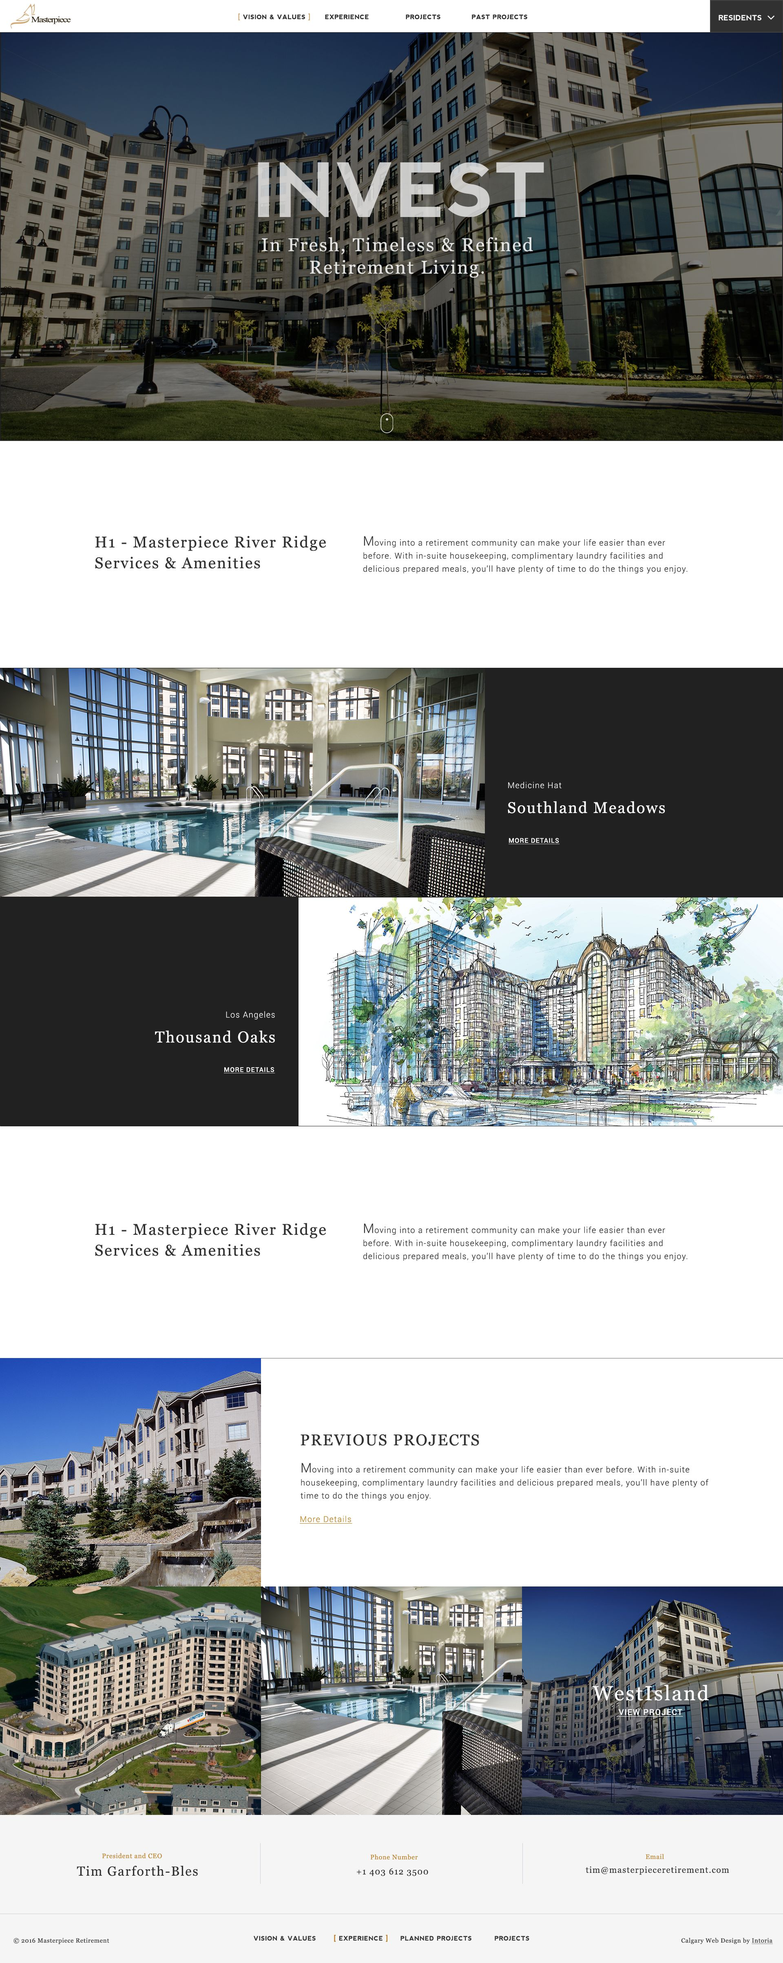
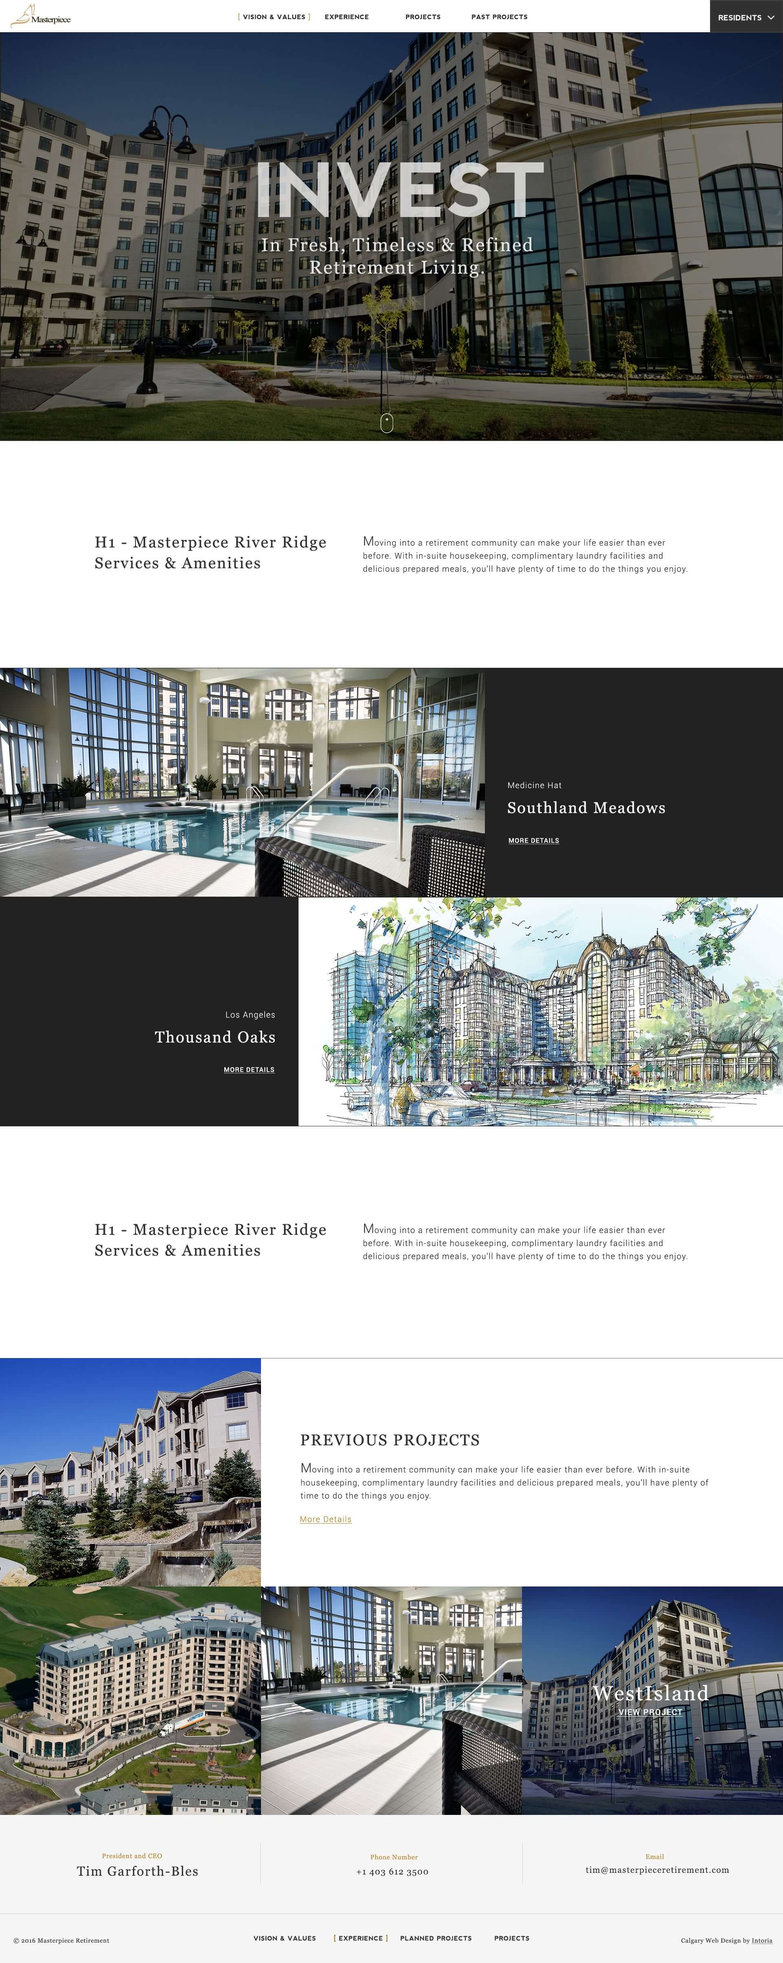
fixing firefox hero bugs

Changed region(s): [[0.4375, 0.4364, 0.9375, 0.5611], [0.0312, 0.7481, 0.25, 0.8105], [0.9375, 0.5299, 0.9688, 0.5611]]

diff --git a/css/abovethefold.min.css b/css/abovethefold.min.css
@@ -1,2 +1,2 @@
-@charset "UTF-8";body,h1,h2,h3,h4,h5,h6,p{font-family:"Open Sans",Helvetica,Arial,sans-serif}body,figure,ul{margin:0}img,img:before{display:block;width:100%}img:after,img:before{position:absolute;left:0;width:100%}.animated,.fadeInUp{-webkit-animation-fill-mode:both;animation-delay:.5s}body{font-weight:300;letter-spacing:.6px;background-color:#fafafa;overflow-x:hidden}ul{list-style:none}h1,h2,h3,h4,h5,h6{font-weight:400;font-style:normal;color:inherit;text-rendering:optimizeLegibility;margin-top:0;margin-bottom:.5rem;line-height:1.2}p{font-size:1.04rem}.button{background-color:#009cad}.button:focus,.button:hover{background-color:#018f9e}img{line-height:2;text-align:center;min-height:50px;position:relative}img:before{content:" ";height:calc(100% + 10px);background-color:#e6e6e6;border:2px dotted #c8c8c8}img:after{content:"" " Broken Image of " attr(alt) "\a" attr(src);display:flex;font-size:16px;font-style:normal;font-family:FontAwesome;color:#646464;white-space:pre;top:5px;height:100%;align-items:center;justify-content:center}.header-bar .header-bar-logo,.header-bar i{top:1.5rem;position:fixed;z-index:1000;color:#fafafa}.header-bar .header-bar-logo{left:1.25rem;cursor:pointer;transition:all .3s ease-out;font-weight:600;font-style:italic;letter-spacing:.08rem;text-decoration:none}.header-bar .header-bar-logo img{opacity:.8;width:4rem}.header-bar i{line-height:inherit;right:1.25rem}@media only screen and (min-width:64.063em){.header-bar .header-bar-logo{top:5rem;left:5.25rem}.header-bar i{top:5rem;right:5.25rem}#hero-video.loaded{opacity:1}#hero-video{min-width:100vw;left:50%;margin-left:-50%;transition:opacity 1s}}#hero-video,.hero-wrapper::before{position:absolute;top:0;width:100%;z-index:-1}#hero-video{background:url(src/../../images/video-preload.jpg) center center/cover;min-height:100vh;object-position:50% 100%;object-fit:cover}#hero-video::-webkit-media-controls{display:none!important}@media only screen and (min-width:1920px){#hero-video{left:0;margin-left:0}}.hero-wrapper{display:flex;flex-direction:column;justify-content:center;height:100vh;color:#fff;overflow-x:hidden;background:rgba(0,0,0,.5)}.hero-wrapper::before{content:"";background:rgba(0,0,0,.9);height:100vh}#hero-content{text-align:center}#hero-content h1{font:italic 400 2rem/1.2 "Open Sans",Helvetica,Arial,sans-serif}#hero-content p{font-size:1.2rem}#hero-content [role=button]{margin-top:1.5rem}@media only screen and (min-width:40.063em){#hero-content h1{font-size:3rem}#hero-content p{font-size:1.6rem}}@media only screen and (min-width:64.063em){#hero-content{position:relative;z-index:0}#hero-content h1{font-size:4rem}#hero-content p{font-size:2rem}#hero-content [role=button]{margin-top:1.5rem;min-width:250px}}.animated{-webkit-animation-duration:2s;animation-duration:2s;animation-fill-mode:both}@-webkit-keyframes fadeIn{from{opacity:0}to{opacity:1}}@keyframes fadeIn{from{opacity:0}to{opacity:1}}.fadeIn{-webkit-animation-name:fadeIn;animation-name:fadeIn}@-webkit-keyframes fadeInUp{from{opacity:0;-webkit-transform:translate3d(0,20%,0);transform:translate3d(0,20%,0)}to{opacity:1;-webkit-transform:none;transform:none}}@keyframes fadeInUp{from{opacity:0;-webkit-transform:translate3d(0,20%,0);transform:translate3d(0,20%,0)}to{opacity:1;-webkit-transform:none;transform:none}}.fadeInUp{-webkit-animation-name:fadeInUp;animation-name:fadeInUp;-webkit-animation-duration:1.2s;animation-duration:1.2s;animation-fill-mode:both}@-webkit-keyframes fadeInPreloader{from{opacity:0;-webkit-transform:translate(-50%,100px);transform:translate(-50%,100px)}to{-webkit-transform:translate(-50%,0);transform:translate(-50%,0);opacity:1}}@keyframes fadeInUpPreloader{from{opacity:0;-webkit-transform:translate(-50%,100px);transform:translate(-50%,100px)}to{-webkit-transform:translate(-50%,0);transform:translate(-50%,0);opacity:1}}.preloader-nav{font-style:italic;text-align:center;position:absolute;color:#fff;-webkit-font-smoothing:antialiased;font-size:16px;bottom:10px;left:50%;width:300px;transition:opacity .8s linear 2s,-webkit-transform 1.5s cubic-bezier(.23,1,.32,1) 2s;transition:opacity .8s linear 2s,transform 1.5s cubic-bezier(.23,1,.32,1) 2s;transition:opacity .8s linear 2s,transform 1.5s cubic-bezier(.23,1,.32,1) 2s,-webkit-transform 1.5s cubic-bezier(.23,1,.32,1) 2s;-webkit-animation-name:fadeInPreloader;animation-name:fadeInPreloader;-webkit-animation-duration:1.2s;animation-duration:1.2s;-webkit-animation-fill-mode:both;animation-fill-mode:both;animation-delay:1.5s}.preloader-nav::after,.preloader-nav::before{content:'';display:block;position:relative;width:10px;height:10px;background:#fff;border-radius:100%;margin:0 auto;bottom:0;line-height:0;text-align:center;-webkit-animation:touch-dot 1.5s cubic-bezier(.23,1,.32,1) infinite;animation:touch-dot 1.5s cubic-bezier(.23,1,.32,1) infinite;transition:opacity .8s linear 2.5s,-webkit-transform 1.5s cubic-bezier(.23,1,.32,1) 2.5s;transition:opacity .8s linear 2.5s,transform 1.5s cubic-bezier(.23,1,.32,1) 2.5s;transition:opacity .8s linear 2.5s,transform 1.5s cubic-bezier(.23,1,.32,1) 2.5s,-webkit-transform 1.5s cubic-bezier(.23,1,.32,1) 2.5s}.no-touch .preloader-nav::before,.touch-device .preloader-nav::after{display:none}.no-touch .preloader-nav{bottom:0}.preloader-nav::after{display:block;content:'•';margin-top:20px;margin-bottom:15px;padding:0;font-family:arial;font-size:22px;line-height:1;background:0 0;border:2px solid #fff;border-radius:30px;width:31px;height:50px;-webkit-animation:mouse-dot 1.5s cubic-bezier(.23,1,.32,1) infinite;animation:mouse-dot 1.5s cubic-bezier(.23,1,.32,1) infinite}.hero-wrapper.post div a,.hero-wrapper.post div h1{font-family:"Open Sans",Helvetica,Arial,sans-serif}.preloader-nav-touch{display:block}.no-touch .preloader-nav-touch{display:none}.preloader-nav-notouch{display:block}.touch-device .preloader-nav-notouch{display:none}@-webkit-keyframes touch-dot{from{opacity:0}33%{opacity:1}to{opacity:0;-webkit-transform:translateY(-20px);transform:translateY(-20px)}}@keyframes touch-dot{from{opacity:0}33%{opacity:1}to{opacity:0;-webkit-transform:translateY(-20px);transform:translateY(-20px)}}@-webkit-keyframes mouse-dot{from{color:transparent}33%{color:#fff}to{padding-top:20px;color:transparent}}@keyframes mouse-dot{from{color:transparent}33%{color:#fff}to{padding-top:20px;color:transparent}}.hero-wrapper.post{display:flex;align-items:center;justify-content:center;flex-direction:column;overflow:hidden;transform:translate3d(0,0,0)}.hero-wrapper.post div{position:relative;z-index:1;text-align:center;padding:0 1.25rem}.hero-wrapper.post div h1{font-size:3.5rem;font-weight:600}.hero-wrapper.post div p{font-size:1.125rem}.hero-wrapper.post div a{position:relative;font-size:1.7rem;color:rgba(250,250,250,.8);font-weight:400;text-transform:capitalize;line-height:1.2}.hero-wrapper.post div a.inactive{text-decoration:line-through;cursor:default}.hero-wrapper.post div a.inactive::after{content:"Not available...";display:block;font-size:12px;position:absolute;width:100%;left:0;right:0;bottom:-15px}.hero-wrapper.post div a.active::after{position:absolute;top:100%;left:0;width:100%;height:4px;background:#fff;content:'';opacity:0;-webkit-transition:opacity .3s,-webkit-transform .3s;-moz-transition:opacity .3s,-moz-transform .3s;transition:opacity .3s,transform .3s;-webkit-transform:translateY(10px);-moz-transform:translateY(10px);transform:translateY(10px)}.hero-wrapper.post div a.active:focus::after,.hero-wrapper.post div a.active:hover::after{opacity:1;-webkit-transform:translateY(0);-moz-transform:translateY(0);transform:translateY(0)}.hero-wrapper.post::before{content:" ";position:absolute;overflow:hidden;-webkit-filter:blur(5px);top:0;height:100vh;width:100%}.hero-wrapper.post::after,.next-project::after{content:"";top:0}.hero-wrapper.post::after{background:rgba(0,0,0,.5);position:absolute;height:100vh;width:100%}.project-context-info-list{padding:3em 0}.project-context-info-list li{text-align:center}.project-context-info-list strong{display:block}.project-context-info-list span{font-weight:400;color:rgba(50,50,50,.8)}.project-container{background:#fafafa;padding-bottom:3em}.project-presentation{width:90%;margin:auto}.project-presentation figcaption,.project-presentation p,.project-presentation picture img{margin-bottom:1.25rem}.project-presentation p{padding:0 1.25rem;font-weight:400;color:rgba(50,50,50,.94)}.project-presentation div{margin:auto}.project-presentation div h3{font-weight:600}.project-presentation div p{padding:0}.project-presentation figure{text-align:center;font-weight:600;color:rgba(0,0,0,.5)}.next-project{position:relative;height:200px;background:#666;display:flex;justify-content:center;flex-direction:column}.next-project::after{background:rgba(0,0,0,.5);position:absolute;height:100%;width:100%}.next-project .next-project-container{position:relative;z-index:1000;padding:0 1.25rem;text-align:center;color:#fafafa}.next-project .next-project-container a{height:100%;width:100%;display:block;position:absolute;top:0;left:0}.next-project .next-project-container::after{content:"\f178";font:normal normal normal 20px/1 FontAwesome}@media only screen and (min-width:40.063em){.hero-wrapper.post,.hero-wrapper.post::after,.hero-wrapper.post::before{height:60vh}.hero-wrapper.post div p{width:85%;margin:0 auto 1rem}.project-presentation>p{width:85%;margin:auto;font-size:1.125rem;padding:3rem 0}.design-showcase.flex25{flex:0 0 50%;max-width:50%}}@media only screen and (max-width:63.9em) and (orientation:landscape){.hero-wrapper.post{height:100vh;transform:none}.hero-wrapper.post::after,.hero-wrapper.post::before{height:100vh}}@media only screen and (min-width:64em){.hero-wrapper.post div p{width:100%;max-width:800px}.project-presentation{width:100%}.project-presentation img{box-shadow:0 2px 8px rgba(0,0,0,.13)}.project-presentation p{padding:0 0 0 2.5rem}.next-project{display:none}.design-showcase.flex100{flex:0 0 100%;max-width:100%}.design-showcase.flex25{flex:0 0 25%;max-width:25%}}.hero-wrapper.post.masterpiece::before{background:url(/../images/masterpiece-hero-mobile.jpg) center center/cover}.hero-wrapper.post.island-birds::before{background:url(/../images/island-birds-hero-mobile.jpg) center center/cover}.hero-wrapper.post.falk::before{background:url(/../images/falk-hero-mobile.jpg) center center/cover}.hero-wrapper.post.seleste::before{background:url(/../images/seleste-hero-mobile.jpg) center center/cover}.hero-wrapper.post.gdservice::before{background:url(/../images/gdservice-hero-mobile.jpg) center center/cover}.hero-wrapper.post.intoria::before{background:url(/../images/intoria-hero-mobile.jpg) center center/cover}.hero-wrapper.post.feskarn::before{background:url(/../images/feskarn-hero-mobile.jpg) center center/cover}.hero-wrapper.post.traverser::before{background:url(/../images/traverser-hero-mobile.jpg) center center/cover}.hero-wrapper.post.gotime::before{background:url(/../images/gotime-hero-mobile.jpg) center center/cover}@media only screen and (min-width:40.063em){.hero-wrapper.post.masterpiece::before{background:url(/../images/masterpiece-hero.jpg) center center/cover}.hero-wrapper.post.island-birds::before{background:url(/../images/island-birds-hero.jpg) center center/cover}.hero-wrapper.post.falk::before{background:url(/../images/falk-hero.jpg) center center/cover}.hero-wrapper.post.seleste::before{background:url(/../images/seleste-hero.jpg) center center/cover}.hero-wrapper.post.gdservice::before{background:url(/../images/gdservice-hero.jpg) center center/cover}.hero-wrapper.post.intoria::before{background:url(/../images/intoria-hero.jpg) center center/cover}.hero-wrapper.post.feskarn::before{background:url(/../images/feskarn-hero.jpg) center center/cover}.hero-wrapper.post.traverser::before{background:url(/../images/traverser-hero.jpg) center center/cover}.hero-wrapper.post.gotime::before{background:url(/../images/gotime-hero.jpg) center center/cover}}
+@charset "UTF-8";body,h1,h2,h3,h4,h5,h6,p{font-family:"Open Sans",Helvetica,Arial,sans-serif}body,figure,ul{margin:0}img,img:before{display:block;width:100%}img:after,img:before{position:absolute;left:0;width:100%}.animated,.fadeInUp{-webkit-animation-fill-mode:both;animation-delay:.5s}body{font-weight:300;letter-spacing:.6px;background-color:#fafafa;overflow-x:hidden}ul{list-style:none}h1,h2,h3,h4,h5,h6{font-weight:400;font-style:normal;color:inherit;text-rendering:optimizeLegibility;margin-top:0;margin-bottom:.5rem;line-height:1.2}p{font-size:1.04rem}.button{background-color:#009cad}.button:focus,.button:hover{background-color:#018f9e}img{line-height:2;text-align:center;min-height:50px;position:relative}img:before{content:" ";height:calc(100% + 10px);background-color:#e6e6e6;border:2px dotted #c8c8c8}img:after{content:"" " Broken Image of " attr(alt) "\a" attr(src);display:flex;font-size:16px;font-style:normal;font-family:FontAwesome;color:#646464;white-space:pre;top:5px;height:100%;align-items:center;justify-content:center}.header-bar .header-bar-logo,.header-bar i{top:1.5rem;position:fixed;z-index:1000;color:#fafafa}.header-bar .header-bar-logo{left:1.25rem;cursor:pointer;transition:all .3s ease-out;font-weight:600;font-style:italic;letter-spacing:.08rem;text-decoration:none}.header-bar .header-bar-logo img{opacity:.8;width:4rem}.header-bar i{line-height:inherit;right:1.25rem}@media only screen and (min-width:64.063em){.header-bar .header-bar-logo{top:5rem;left:5.25rem}.header-bar i{top:5rem;right:5.25rem}#hero-video.loaded{opacity:1}#hero-video{min-width:100vw;left:50%;margin-left:-50%;transition:opacity 1s}}#hero-video,.hero-wrapper::before{position:absolute;top:0;width:100%;z-index:-1}#hero-video{background:url(src/../../images/video-preload.jpg) center center/cover;min-height:100vh;object-position:50% 100%;object-fit:cover}#hero-video::-webkit-media-controls{display:none!important}@media only screen and (min-width:1920px){#hero-video{left:0;margin-left:0}}.hero-wrapper{display:flex;flex-direction:column;justify-content:center;height:100vh;color:#fff;overflow-x:hidden;background:rgba(0,0,0,.5)}.hero-wrapper::before{content:"";background:rgba(0,0,0,.9);height:100vh}#hero-content{text-align:center}#hero-content h1{font:italic 400 2rem/1.2 "Open Sans",Helvetica,Arial,sans-serif}#hero-content p{font-size:1.2rem}#hero-content [role=button]{margin-top:1.5rem}@media only screen and (min-width:40.063em){#hero-content h1{font-size:3rem}#hero-content p{font-size:1.6rem}}@media only screen and (min-width:64.063em){#hero-content{position:relative;z-index:0}#hero-content h1{font-size:4rem}#hero-content p{font-size:2rem}#hero-content [role=button]{margin-top:1.5rem;min-width:250px}}.animated{-webkit-animation-duration:2s;animation-duration:2s;animation-fill-mode:both}@-webkit-keyframes fadeIn{from{opacity:0}to{opacity:1}}@keyframes fadeIn{from{opacity:0}to{opacity:1}}.fadeIn{-webkit-animation-name:fadeIn;animation-name:fadeIn}@-webkit-keyframes fadeInUp{from{opacity:0;-webkit-transform:translate3d(0,20%,0);transform:translate3d(0,20%,0)}to{opacity:1;-webkit-transform:none;transform:none}}@keyframes fadeInUp{from{opacity:0;-webkit-transform:translate3d(0,20%,0);transform:translate3d(0,20%,0)}to{opacity:1;-webkit-transform:none;transform:none}}.fadeInUp{-webkit-animation-name:fadeInUp;animation-name:fadeInUp;-webkit-animation-duration:1.2s;animation-duration:1.2s;animation-fill-mode:both}@-webkit-keyframes fadeInPreloader{from{opacity:0;-webkit-transform:translate(-50%,100px);transform:translate(-50%,100px)}to{-webkit-transform:translate(-50%,0);transform:translate(-50%,0);opacity:1}}@keyframes fadeInUpPreloader{from{opacity:0;-webkit-transform:translate(-50%,100px);transform:translate(-50%,100px)}to{-webkit-transform:translate(-50%,0);transform:translate(-50%,0);opacity:1}}.preloader-nav{font-style:italic;text-align:center;position:absolute;color:#fff;-webkit-font-smoothing:antialiased;font-size:16px;bottom:10px;left:50%;width:300px;transition:opacity .8s linear 2s,-webkit-transform 1.5s cubic-bezier(.23,1,.32,1) 2s;transition:opacity .8s linear 2s,transform 1.5s cubic-bezier(.23,1,.32,1) 2s;transition:opacity .8s linear 2s,transform 1.5s cubic-bezier(.23,1,.32,1) 2s,-webkit-transform 1.5s cubic-bezier(.23,1,.32,1) 2s;-webkit-animation-name:fadeInPreloader;animation-name:fadeInPreloader;-webkit-animation-duration:1.2s;animation-duration:1.2s;-webkit-animation-fill-mode:both;animation-fill-mode:both;animation-delay:1.5s;transform:translateX(-150px)}.preloader-nav::after,.preloader-nav::before{content:'';display:block;position:relative;width:10px;height:10px;background:#fff;border-radius:100%;margin:0 auto;bottom:0;line-height:0;text-align:center;-webkit-animation:touch-dot 1.5s cubic-bezier(.23,1,.32,1) infinite;animation:touch-dot 1.5s cubic-bezier(.23,1,.32,1) infinite;transition:opacity .8s linear 2.5s,-webkit-transform 1.5s cubic-bezier(.23,1,.32,1) 2.5s;transition:opacity .8s linear 2.5s,transform 1.5s cubic-bezier(.23,1,.32,1) 2.5s;transition:opacity .8s linear 2.5s,transform 1.5s cubic-bezier(.23,1,.32,1) 2.5s,-webkit-transform 1.5s cubic-bezier(.23,1,.32,1) 2.5s}.no-touch .preloader-nav::before,.touch-device .preloader-nav::after{display:none}.no-touch .preloader-nav{bottom:0}.preloader-nav::after{display:block;content:'•';margin-top:20px;margin-bottom:15px;padding:0;font-family:arial;font-size:22px;line-height:1;background:0 0;border:2px solid #fff;border-radius:30px;width:31px;height:50px;-webkit-animation:mouse-dot 1.5s cubic-bezier(.23,1,.32,1) infinite;animation:mouse-dot 1.5s cubic-bezier(.23,1,.32,1) infinite}.hero-wrapper.post div a,.hero-wrapper.post div h1{font-family:"Open Sans",Helvetica,Arial,sans-serif}.preloader-nav-touch{display:block}.no-touch .preloader-nav-touch{display:none}.preloader-nav-notouch{display:block}.touch-device .preloader-nav-notouch{display:none}@-webkit-keyframes touch-dot{from{opacity:0}33%{opacity:1}to{opacity:0;-webkit-transform:translateY(-20px);transform:translateY(-20px)}}@keyframes touch-dot{from{opacity:0}33%{opacity:1}to{opacity:0;-webkit-transform:translateY(-20px);transform:translateY(-20px)}}@-webkit-keyframes mouse-dot{from{color:transparent}33%{color:#fff}to{padding-top:20px;color:transparent}}@keyframes mouse-dot{from{color:transparent}33%{color:#fff}to{padding-top:20px;color:transparent}}.hero-wrapper.post{display:flex;justify-content:center;flex-direction:column;overflow:hidden;transform:translate3d(0,0,0)}.hero-wrapper.post div{position:relative;z-index:1;text-align:center;padding:0 1.25rem}.hero-wrapper.post div h1{font-size:3.5rem;font-weight:600}.hero-wrapper.post div p{font-size:1.125rem}.hero-wrapper.post div a{position:relative;font-size:1.7rem;color:rgba(250,250,250,.8);font-weight:400;text-transform:capitalize;line-height:1.2}.hero-wrapper.post div a.inactive{text-decoration:line-through;cursor:default}.hero-wrapper.post div a.inactive::after{content:"Not available...";display:block;font-size:12px;position:absolute;width:100%;left:0;right:0;bottom:-15px}.hero-wrapper.post div a.active::after{position:absolute;top:100%;left:0;width:100%;height:4px;background:#fff;content:'';opacity:0;-webkit-transition:opacity .3s,-webkit-transform .3s;-moz-transition:opacity .3s,-moz-transform .3s;transition:opacity .3s,transform .3s;-webkit-transform:translateY(10px);-moz-transform:translateY(10px);transform:translateY(10px)}.hero-wrapper.post div a.active:focus::after,.hero-wrapper.post div a.active:hover::after{opacity:1;-webkit-transform:translateY(0);-moz-transform:translateY(0);transform:translateY(0)}.hero-wrapper.post::before{content:" ";position:absolute;overflow:hidden;-webkit-filter:blur(5px);top:0;height:100vh;width:100%}.hero-wrapper.post::after,.next-project::after{content:"";top:0}.hero-wrapper.post::after{background:rgba(0,0,0,.5);position:absolute;height:100vh;width:100%}.project-context-info-list{padding:3em 0}.project-context-info-list li{text-align:center}.project-context-info-list strong{display:block}.project-context-info-list span{font-weight:400;color:rgba(50,50,50,.8)}.project-container{background:#fafafa;padding-bottom:3em}.project-presentation{width:90%;margin:auto}.project-presentation figcaption,.project-presentation p,.project-presentation picture img{margin-bottom:1.25rem}.project-presentation p{padding:0 1.25rem;font-weight:400;color:rgba(50,50,50,.94)}.project-presentation div{margin:auto}.project-presentation div h3{font-weight:600}.project-presentation div p{padding:0}.project-presentation figure{text-align:center;font-weight:600;color:rgba(0,0,0,.5)}.next-project{position:relative;height:200px;background:#666;display:flex;justify-content:center;flex-direction:column}.next-project::after{background:rgba(0,0,0,.5);position:absolute;height:100%;width:100%}.next-project .next-project-container{position:relative;z-index:1000;padding:0 1.25rem;text-align:center;color:#fafafa}.next-project .next-project-container a{height:100%;width:100%;display:block;position:absolute;top:0;left:0}.next-project .next-project-container::after{content:"\f178";font:normal normal normal 20px/1 FontAwesome}@media only screen and (min-width:40.063em){.hero-wrapper.post,.hero-wrapper.post::after,.hero-wrapper.post::before{height:60vh}.hero-wrapper.post div p{width:85%;margin:0 auto 1rem}.project-presentation>p{width:85%;margin:auto;font-size:1.125rem;padding:3rem 0}.design-showcase.flex25{flex:0 0 50%;max-width:50%}}@media only screen and (max-width:63.9em) and (orientation:landscape){.hero-wrapper.post{height:100vh;transform:none}.hero-wrapper.post::after,.hero-wrapper.post::before{height:100vh}}@media only screen and (min-width:64em){.hero-wrapper.post div p{width:100%;max-width:800px}.project-presentation{width:100%}.project-presentation img{box-shadow:0 2px 8px rgba(0,0,0,.13)}.project-presentation p{padding:0 0 0 2.5rem}.next-project{display:none}.design-showcase.flex100{flex:0 0 100%;max-width:100%}.design-showcase.flex25{flex:0 0 25%;max-width:25%}}.hero-wrapper.post.masterpiece::before{background:url(/../images/masterpiece-hero-mobile.jpg) center center/cover}.hero-wrapper.post.island-birds::before{background:url(/../images/island-birds-hero-mobile.jpg) center center/cover}.hero-wrapper.post.falk::before{background:url(/../images/falk-hero-mobile.jpg) center center/cover}.hero-wrapper.post.seleste::before{background:url(/../images/seleste-hero-mobile.jpg) center center/cover}.hero-wrapper.post.gdservice::before{background:url(/../images/gdservice-hero-mobile.jpg) center center/cover}.hero-wrapper.post.intoria::before{background:url(/../images/intoria-hero-mobile.jpg) center center/cover}.hero-wrapper.post.feskarn::before{background:url(/../images/feskarn-hero-mobile.jpg) center center/cover}.hero-wrapper.post.traverser::before{background:url(/../images/traverser-hero-mobile.jpg) center center/cover}.hero-wrapper.post.gotime::before{background:url(/../images/gotime-hero-mobile.jpg) center center/cover}@media only screen and (min-width:40.063em){.hero-wrapper.post.masterpiece::before{background:url(/../images/masterpiece-hero.jpg) center center/cover}.hero-wrapper.post.island-birds::before{background:url(/../images/island-birds-hero.jpg) center center/cover}.hero-wrapper.post.falk::before{background:url(/../images/falk-hero.jpg) center center/cover}.hero-wrapper.post.seleste::before{background:url(/../images/seleste-hero.jpg) center center/cover}.hero-wrapper.post.gdservice::before{background:url(/../images/gdservice-hero.jpg) center center/cover}.hero-wrapper.post.intoria::before{background:url(/../images/intoria-hero.jpg) center center/cover}.hero-wrapper.post.feskarn::before{background:url(/../images/feskarn-hero.jpg) center center/cover}.hero-wrapper.post.traverser::before{background:url(/../images/traverser-hero.jpg) center center/cover}.hero-wrapper.post.gotime::before{background:url(/../images/gotime-hero.jpg) center center/cover}}
 /*# sourceMappingURL=abovethefold.min.css.map */

diff --git a/src/_build/abovethefold.css b/src/_build/abovethefold.css
@@ -272,7 +272,8 @@ img:after {
   animation-duration: 1.2s;
   -webkit-animation-fill-mode: both;
   animation-fill-mode: both;
-  animation-delay: 1.5s; }
+  animation-delay: 1.5s;
+  transform: translateX(-150px); }
 
 .preloader-nav::before,
 .preloader-nav::after {
@@ -371,7 +372,6 @@ img:after {
 
 .hero-wrapper.post {
   display: flex;
-  align-items: center;
   justify-content: center;
   flex-direction: column;
   overflow: hidden;

diff --git a/src/sass/imports/_animations.scss b/src/sass/imports/_animations.scss
@@ -107,6 +107,7 @@
     -webkit-animation-fill-mode: both;
     animation-fill-mode: both;
     animation-delay: 1.5s;
+    transform: translateX(-150px);
 }
 
 .preloader-nav {

diff --git a/src/sass/imports/_post.scss b/src/sass/imports/_post.scss
@@ -1,6 +1,5 @@
 .hero-wrapper.post {
     display: flex;
-    align-items: center;
     justify-content: center;
     flex-direction: column;
     overflow: hidden;
